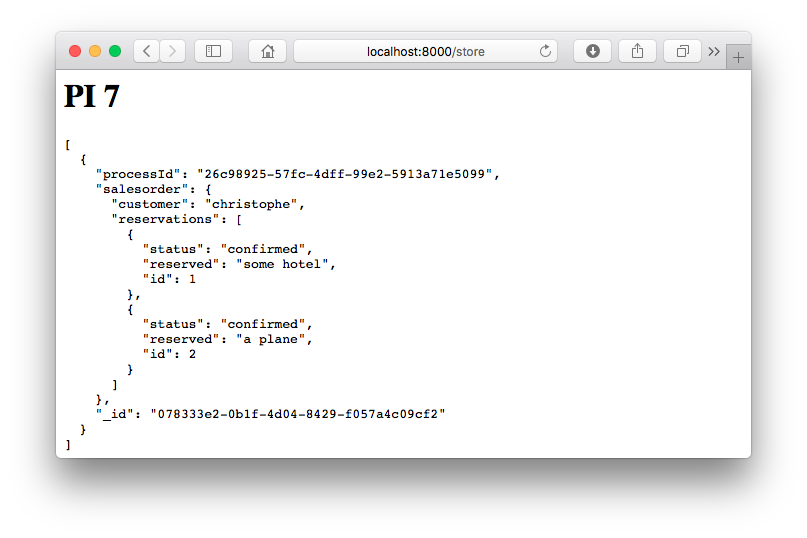
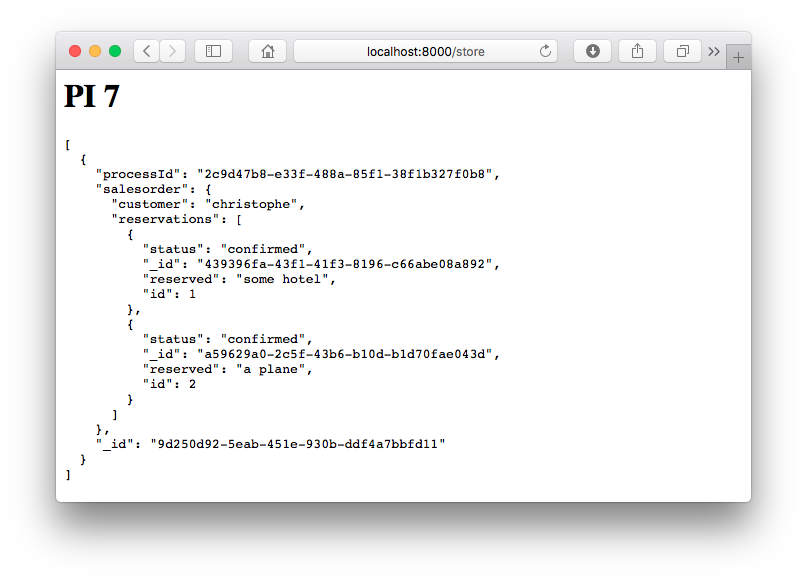
added persistence of reservations

diff --git a/pi7/reservation.py b/pi7/reservation.py
@@ -1,15 +1,18 @@
 import logging
 import requests
 import time
+import uuid
 
 from flask         import request
 from flask_restful import Resource
 
 from pi7             import server, api
+from pi7.store       import db
 from pi7.integration import url
 
 class Reservation(object):
   def __init__(self):
+    self.guid       = str(uuid.uuid4())
     self.processId   = None
     self.reservation = None
 
@@ -23,16 +26,30 @@ class Reservation(object):
     )
     time.sleep(1) # simulate some work that must be done
     self.reservation = reservation
+    self.persist()
     self.confirm()
+  
+  def persist(self):
+    db.reservation.update_one(
+      { "_id": self.guid },
+      { "$set" : {
+        "processId"   : self.processId,
+        "reservation" : self.reservation
+      }}, upsert=True)
+    logging.info("reservation: persisted {0}".format(self.guid))
+    return self
   
   def confirm(self):
     logging.info("reservation: confirming")
     self.reservation["status"] = "confirmed"
+    self.persist()
+    reservation = self.reservation
+    reservation["_id"] = self.guid
     requests.post(
       url("/api/integration/confirm/reservation"),
       json={
         "processId"   : self.processId,
-        "reservation" : self.reservation
+        "reservation" : reservation
       })
 
 # event consumer

diff --git a/README.md b/README.md
@@ -36,28 +36,32 @@ Visit [http://localhost:8000](http://localhost:8000)...
 The logging shows the workflow in action, from the web application receiving the browser request, through the integration layer, dispatching the request to consumers, up to the final confirmation.
 
 ```
-[2018-11-23 22:58:13 +0100] [99129] [INFO] web: received sales order request
-[2018-11-23 22:58:13 +0100] [99129] [INFO]      assigned businessProcessId 26c98925-57fc-4dff-99e2-5913a71e5099
-[2018-11-23 22:58:13 +0100] [99129] [INFO]      publishing sales order request event
-[2018-11-23 22:58:13 +0100] [99128] [INFO] integration: received sales order request
-[2018-11-23 22:58:13 +0100] [99128] [INFO]              delivering to sales order and reservation components
-[2018-11-23 22:58:13 +0100] [99126] [INFO] sales order: received sales order request
-[2018-11-23 22:58:13 +0100] [99126] [INFO] sales order: persisted 078333e2-0b1f-4d04-8429-f057a4c09cf2
-[2018-11-23 22:58:13 +0100] [99130] [INFO] reservation: received sales order request
-[2018-11-23 22:58:13 +0100] [99130] [INFO] reservation: making reservation for some hotel
-[2018-11-23 22:58:14 +0100] [99130] [INFO] reservation: confirming
-[2018-11-23 22:58:14 +0100] [99126] [INFO] integration: received reservation confirmation
-[2018-11-23 22:58:14 +0100] [99126] [INFO]              delivering to sales order component
-[2018-11-23 22:58:14 +0100] [99125] [INFO] sales order: received reservation confirmation
-[2018-11-23 22:58:14 +0100] [99125] [INFO] sales order: persisted 078333e2-0b1f-4d04-8429-f057a4c09cf2
-[2018-11-23 22:58:14 +0100] [99130] [INFO] reservation: making reservation for a plane
-[2018-11-23 22:58:15 +0100] [99130] [INFO] reservation: confirming
-[2018-11-23 22:58:15 +0100] [99126] [INFO] integration: received reservation confirmation
-[2018-11-23 22:58:15 +0100] [99126] [INFO]              delivering to sales order component
-[2018-11-23 22:58:16 +0100] [99125] [INFO] sales order: received reservation confirmation
-[2018-11-23 22:58:16 +0100] [99125] [INFO] sales order: persisted 078333e2-0b1f-4d04-8429-f057a4c09cf2
-[2018-11-23 22:58:16 +0100] [99125] [INFO] sales order: all reservations are confirmed
-[2018-11-23 22:58:16 +0100] [99127] [INFO] integration: received sales order confirmation
+[2018-11-23 23:06:43 +0100] [99835] [INFO] web: received sales order request
+[2018-11-23 23:06:43 +0100] [99835] [INFO]      assigned businessProcessId 2c9d47b8-e33f-488a-85f1-38f1b327f0b8
+[2018-11-23 23:06:43 +0100] [99835] [INFO]      publishing sales order request event
+[2018-11-23 23:06:43 +0100] [99833] [INFO] integration: received sales order request
+[2018-11-23 23:06:43 +0100] [99833] [INFO]              delivering to sales order and reservation components
+[2018-11-23 23:06:43 +0100] [99834] [INFO] sales order: received sales order request
+[2018-11-23 23:06:43 +0100] [99834] [INFO] sales order: persisted 9d250d92-5eab-451e-930b-ddf4a7bbfd11
+[2018-11-23 23:06:43 +0100] [99832] [INFO] reservation: received sales order request
+[2018-11-23 23:06:43 +0100] [99832] [INFO] reservation: making reservation for some hotel
+[2018-11-23 23:06:44 +0100] [99832] [INFO] reservation: persisted 439396fa-43f1-41f3-8196-c66abe08a892
+[2018-11-23 23:06:44 +0100] [99832] [INFO] reservation: confirming
+[2018-11-23 23:06:44 +0100] [99832] [INFO] reservation: persisted 439396fa-43f1-41f3-8196-c66abe08a892
+[2018-11-23 23:06:44 +0100] [99834] [INFO] integration: received reservation confirmation
+[2018-11-23 23:06:44 +0100] [99834] [INFO]              delivering to sales order component
+[2018-11-23 23:06:44 +0100] [99836] [INFO] sales order: received reservation confirmation
+[2018-11-23 23:06:44 +0100] [99836] [INFO] sales order: persisted 9d250d92-5eab-451e-930b-ddf4a7bbfd11
+[2018-11-23 23:06:44 +0100] [99832] [INFO] reservation: making reservation for a plane
+[2018-11-23 23:06:45 +0100] [99832] [INFO] reservation: persisted a59629a0-2c5f-43b6-b10d-b1d70fae043d
+[2018-11-23 23:06:45 +0100] [99832] [INFO] reservation: confirming
+[2018-11-23 23:06:45 +0100] [99832] [INFO] reservation: persisted a59629a0-2c5f-43b6-b10d-b1d70fae043d
+[2018-11-23 23:06:45 +0100] [99836] [INFO] integration: received reservation confirmation
+[2018-11-23 23:06:45 +0100] [99836] [INFO]              delivering to sales order component
+[2018-11-23 23:06:45 +0100] [99834] [INFO] sales order: received reservation confirmation
+[2018-11-23 23:06:45 +0100] [99834] [INFO] sales order: persisted 9d250d92-5eab-451e-930b-ddf4a7bbfd11
+[2018-11-23 23:06:45 +0100] [99834] [INFO] sales order: all reservations are confirmed
+[2018-11-23 23:06:45 +0100] [99831] [INFO] integration: received sales order confirmation
 ```
 
 ## Meanwhile in the Store
@@ -67,22 +71,43 @@ $ mongo
 > use pi7
 > db.salesorder.find().pretty()
 {
-	"_id" : "078333e2-0b1f-4d04-8429-f057a4c09cf2",
-	"processId" : "26c98925-57fc-4dff-99e2-5913a71e5099",
+	"_id" : "9d250d92-5eab-451e-930b-ddf4a7bbfd11",
+	"processId" : "2c9d47b8-e33f-488a-85f1-38f1b327f0b8",
 	"salesorder" : {
 		"customer" : "christophe",
 		"reservations" : [
 			{
 				"status" : "confirmed",
+				"_id" : "439396fa-43f1-41f3-8196-c66abe08a892",
 				"reserved" : "some hotel",
 				"id" : 1
 			},
 			{
 				"status" : "confirmed",
+				"_id" : "a59629a0-2c5f-43b6-b10d-b1d70fae043d",
 				"reserved" : "a plane",
 				"id" : 2
 			}
 		]
+	}
+}
+> db.reservation.find().pretty()
+{
+	"_id" : "439396fa-43f1-41f3-8196-c66abe08a892",
+	"processId" : "2c9d47b8-e33f-488a-85f1-38f1b327f0b8",
+	"reservation" : {
+		"status" : "confirmed",
+		"reserved" : "some hotel",
+		"id" : 1
+	}
+}
+{
+	"_id" : "a59629a0-2c5f-43b6-b10d-b1d70fae043d",
+	"processId" : "2c9d47b8-e33f-488a-85f1-38f1b327f0b8",
+	"reservation" : {
+		"status" : "confirmed",
+		"reserved" : "a plane",
+		"id" : 2
 	}
 }
 ```
